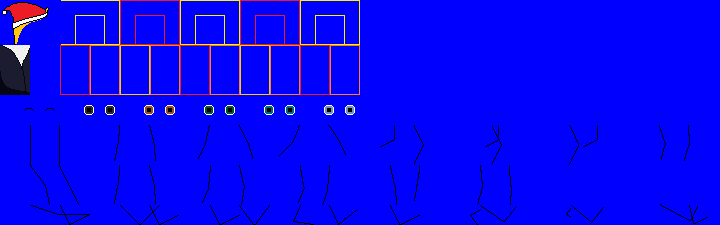
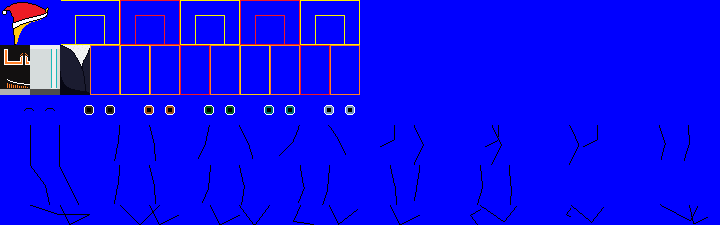
Maj: Added agressive solder, improved AI of citizen; New textures Min: uncommented snow;

Changed region(s): [[0.0, 0.1867, 0.1222, 0.4356]]

diff --git a/Stickman Action/Objects.h b/Stickman Action/Objects.h
@@ -10,6 +10,7 @@ namespace npcAction
 		{
 		Stay,
 		Walk,
+		Run,
 		Back,
 		Shoot,
 		Rush
@@ -259,36 +260,109 @@ class NPC: public Stickman
 	{
 	private:
 		int fraction = 0;
-		
+		int fightAction = npcAction::Stay;
+
+		void walk (float speed, float time)
+			{
+			if (way == 0)
+				{
+				if (velocity.x < speed - 7.5f*time)
+					velocity.x += 7.5f*time;
+				handAngle = -Pi/2.f;
+				}
+			else
+				{
+				if (velocity.x > -speed + 7.5f*time)
+					velocity.x -= 7.5f*time;
+				handAngle = Pi/2.f;
+				}
+			}
+
+		void updateNpcAction ()
+			{
+
+			
+			}
+
 		void Control (Level &lvl, sf::Vector2f target, float time)
 			{
 			sf::Vector2f trgDiff = target - getBulletStart();
+			float trgAngle = atan2 (-trgDiff.x, trgDiff.y);
+			float dist = vecL (trgDiff);
 			// Logic
+			size.x = (guns [currentGun].getLength ()-30)*2;
+
 			switch (type)
 				{
 				case objectType::citizen:
 					{
-					if (CheckBorders (lvl, time) > 1)
+					if (fightAction == npcAction::Walk)
 						{
-						if (way == 1)
+						if (CheckBorders (lvl, time) > 1)
 							{
-							way = 0;
-							velocity.x = 2.5f;
-							handAngle = -Pi/2.f;
+							if (way == 1) way = 0;
+							else          way = 1;
 							}
-						else
-							{
-							way = 1;
-							velocity.x = -2.5f;
-							handAngle = Pi/2.f;
-							}
+						walk (2.5f, time);
+
+						if (hp != 100)
+							fightAction = npcAction::Run;
 						}
+					else if (fightAction == npcAction::Run)
+						{
+						if (CheckBorders (lvl, time) > 1)
+							way = !way;
+
+						walk (10.f, time);
+						}
+
 					break;
 					}
+				case objectType::solder:
+					{
+					CheckBorders (lvl, time);
+
+					float angleBeforeUpdate = handAngle;
+					
+					// Choosing the way
+					if (handAngle > 0) way = 1;
+					else               way = 0;
+
+					if (trgDiff.x > 0)
+						way = 0;
+					else
+						way = 1;
+					walk (5.f, time);
+
+					shooting = false;
+					if (dist < 1000)
+						{
+						handAngle = angleBeforeUpdate;
+
+						// Aiming
+						if (trgAngle > handAngle+2.f*Pi*time)
+							handAngle += 2.f*Pi*time;
+						if (trgAngle < handAngle-2.f*Pi*time)
+							handAngle -= 2.f*Pi*time;
+						else if (guns [currentGun].isReady ())
+							{
+							guns [currentGun].fire ();
+							shooting = true;
+							}
+						
+						}
+
+					guns [currentGun].update (time);
+
+					
+					break;
+					}
+
 				default:
+					CheckBorders (lvl, time);
 					break;
 				}
-
+			
 			// Actions
 			if (onGround)
 				{
@@ -310,16 +384,36 @@ class NPC: public Stickman
 	public:
 		NPC (sf::Image &image, sf::Image &gunImage, sf::Vector2f POS, float M, int npcId, int FRACTION, bool WAY):Stickman (image, gunImage, POS, M)
 			{
-			if (npcId == objectType::citizen)
-				{
-				velocity.x = 2.5f - 5.f*WAY;
-				handAngle = Pi*WAY-Pi/2.f;
-				}
-
-
 			type = npcId;
 			way = WAY;
 			fraction = FRACTION;
+
+			switch (npcId)
+				{
+				case objectType::citizen:
+					{
+					fightAction = npcAction::Walk;
+					
+					guns [0] = hands;
+					guns [1] = hands;
+					guns [2] = hands;
+					app.clothes = 2;
+					break;
+					}
+				case objectType::solder:
+					{
+					velocity = sf::Vector2f (0, 0);
+					handAngle = Pi*WAY-Pi/2.f;
+
+					guns [0] = PSR400;
+					guns [1] = hands;
+					guns [2] = hands;
+					app.clothes = 1;
+					}
+				default:
+					break;
+				}
+
 			}
 	};
 

diff --git a/Stickman Action/main.cpp b/Stickman Action/main.cpp
@@ -58,10 +58,10 @@ void SinglePlayer (sf::RenderWindow &window)
 	mapEditor (window, level, map_sprite, "Data/map/0.ini");
 
 	//---------Objects list---------//
-	/*float snow [100] = {};
+	float snow [100] = {};
 	float snowSpeed [100] = {};
 	for (int i = 0; i < 100; i++)
-		snowSpeed [i] = (rand ()%100+50)*5.f;*/
+		snowSpeed [i] = (rand ()%100+50)*5.f;
 
 	std::vector <Stickman*> stickmans;
 	Bullet bullets [1000];
@@ -69,7 +69,7 @@ void SinglePlayer (sf::RenderWindow &window)
 	std::vector <Object*> mapObjects;
 
 	stickmans.push_back (new Player (stickman, guns, sf::Vector2f (500, 300), 80));
-	stickmans.push_back (new NPC (stickman, guns, sf::Vector2f (600, 300), 80, objectType::citizen, 0, 0));
+	stickmans.push_back (new NPC (stickman, guns, sf::Vector2f (1200, 300), 80, objectType::solder, 0, 0));
 	mapObjects.push_back (new ChristmasTree (tree, sf::Vector2f (600, 300), 20));
 
 	Camera camera (sf::FloatRect (0, 0, float (window.getSize().x), float (window.getSize().y)));
@@ -158,12 +158,12 @@ void SinglePlayer (sf::RenderWindow &window)
 
 				if (a->getType () == objectType::player)
 					{
-					thisPlayerPos = a->getPos ();
+					thisPlayerPos = a->getBulletStart ();
 
 					a->Update (level, time, sf::Vector2f (sf::Mouse::getPosition (window))*1920.f/float (window.getSize ().x), lMousePrsd);
 					}
 				else
-					a->Update (level, time, sf::Vector2f (sf::Mouse::getPosition (window))*1920.f/float (window.getSize ().x));
+					a->Update (level, time, thisPlayerPos);
 
 				if (a->isShoot ())
 					CreateBulletsFromGun (bullets+nBullets, nBullets, a->getBulletStart (), a->getHandAngle (), a->getDisp (), a->getGun (), a->getVel ());
@@ -189,11 +189,13 @@ void SinglePlayer (sf::RenderWindow &window)
 					}
 				}
 
+			
+
 			for (auto a: mapObjects)
 				a->Update (level, time);
 			}
 
-		/*
+		
 		// Snowflakes
 		for (int i = 0; i < 100; i++)
 			{
@@ -202,7 +204,7 @@ void SinglePlayer (sf::RenderWindow &window)
 			if (snow [i] > camera.cam.getCenter ().y+window.getSize ().y/2) snow [i] -= window.getSize ().y;
 			if (snow [i] < camera.cam.getCenter ().y-window.getSize ().y/2) snow [i] += window.getSize ().y;
 			}
-		*/
+		
 		graphics = clock ();
 		window.setView (camera.PlayerCam (sf::Vector2f (thisPlayerPos.x, thisPlayerPos.y-200)));
 		// Graphics
@@ -221,8 +223,8 @@ void SinglePlayer (sf::RenderWindow &window)
 			if (onScreen (bullets [i].getPos (), window, camera))
 				bullets [i].Draw (window, time);
 		
-		/*
-		for (int i = int (camera.cam.getCenter ().x-920)/20; i < int (camera.cam.getCenter ().x+920)/20; i++)
+		
+		for (int i = int (camera.cam.getCenter ().x-window.getSize().x/2)/20; i < int (camera.cam.getCenter ().x+window.getSize ().x/2)/20; i++)
 			{
 			sf::CircleShape snowflake;
 			snowflake.setPosition (i*20.f, snow [(i+100)%100]);
@@ -230,7 +232,7 @@ void SinglePlayer (sf::RenderWindow &window)
 			snowflake.setFillColor (sf::Color::White);
 			window.draw (snowflake);
 			}
-			*/
+			
 		end = clock ();
 
 		window.display ();	
